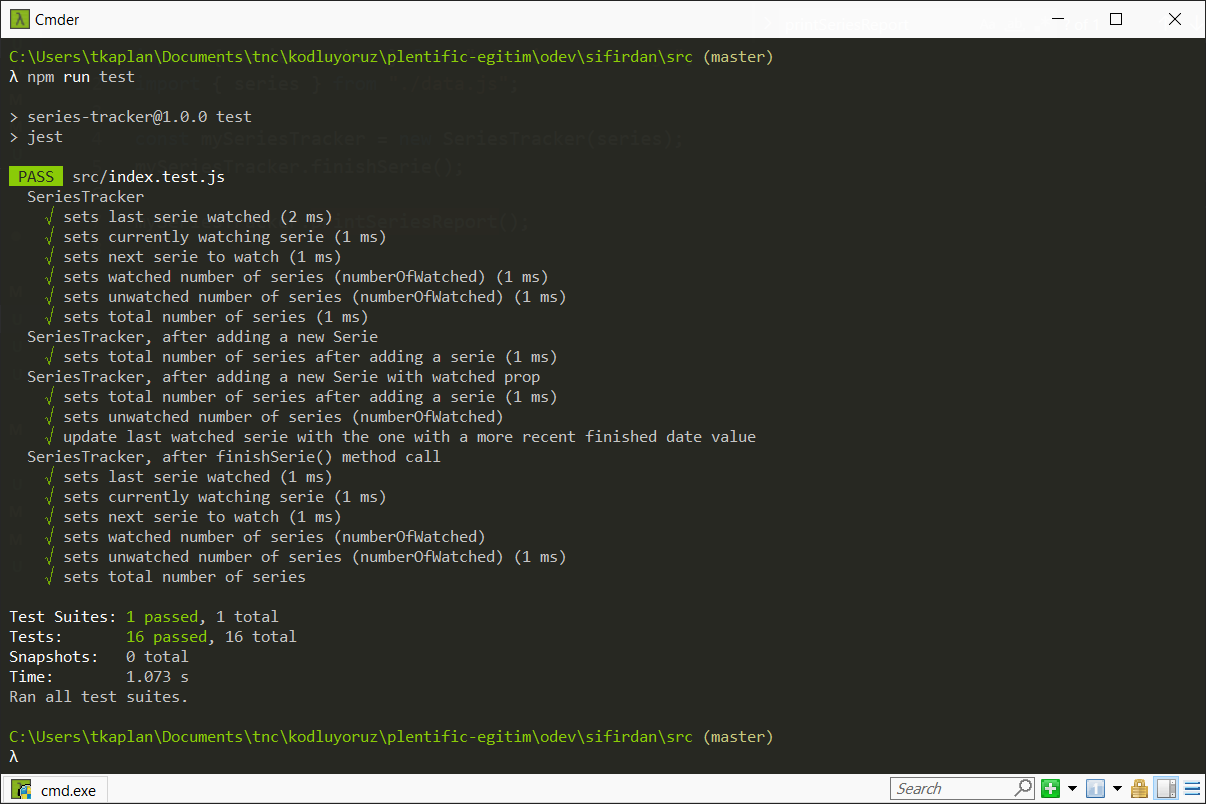
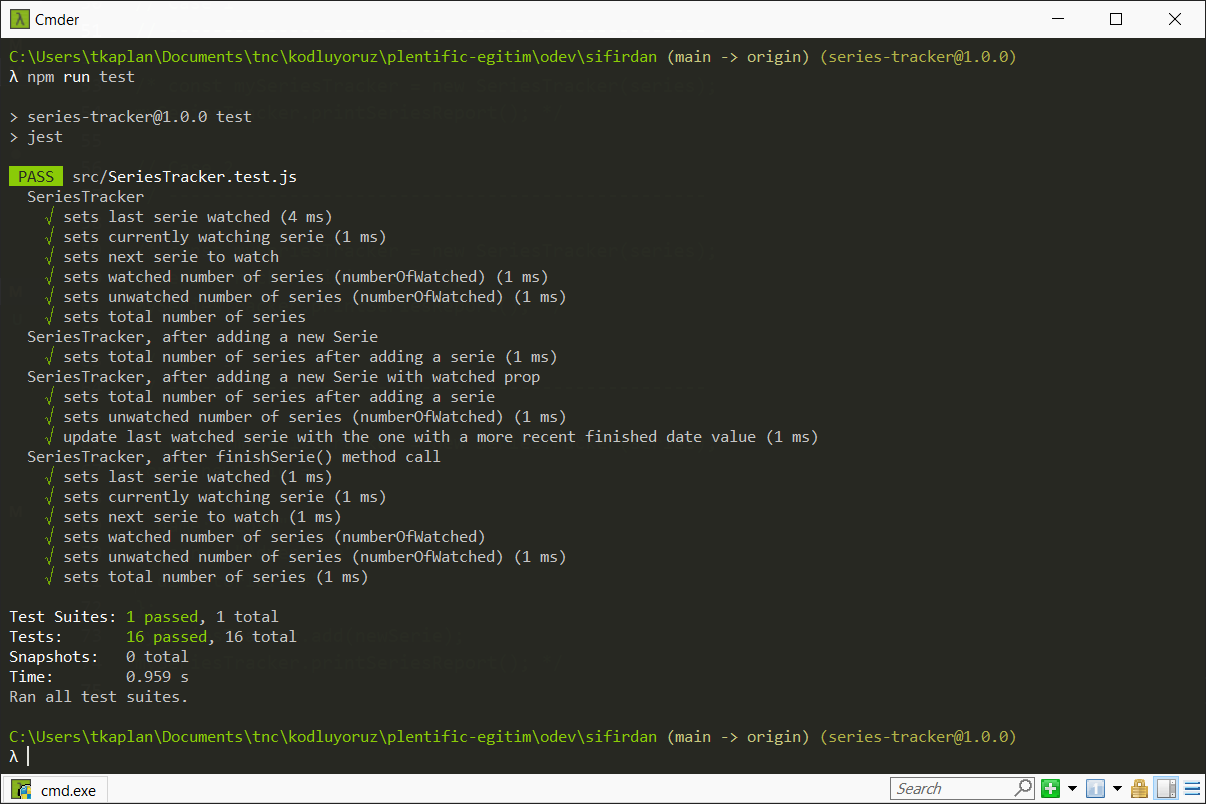
update readme rename test file

diff --git a/README.md b/README.md
@@ -1,20 +1,17 @@
 ## Task: TV Series Tracker
 
-Codesandbox linki:
-https://codesandbox.io/s/magical-silence-vsob4?file=/src/index.js:1784-2411
-projeyi codesandbox'dan forklayarak da çalışabilirsiniz.
+Projeyi forklayıp `SeriesTracker.js` dosyasındaki değişiklikleri yaptıktan sonra pushlamanız yeterli. Diğer dosyalarda değişiklik yapılması gerekli değil.
 
-Bittiğinde index.js'yi kopyalayıp repoya yapıştırmanız yeterli.
+`SeriesTracker.js` dosyası içindeki yorum satırlarına göre SeriesTracker fonksiyonunu çalışır hale getirerek konsolda ekran görüntüsündeki değerlerin çıkmasını sağlayın.
+methodları çalıştırmak için komutlarını çalıştırın.
+`node method-1.js`
+`node method-2.js`
+Projeyi kopyaladıktan sonra `npm install` komutu ile yükleyip `npm run test` komutu ile testleri çalıştırabilirsini.
+`SeriesTracker.test.js` dosyasını okuyarak istenenleri daha detaylı görebilirsiniz.
 
-index.js dosyası içindeki yorum satırlarına göre SeriesTracker fonksiyonunu çalışır hale getirerek konsolda ekran görüntüsündeki değerlerin çıkmasını sağlayın.
+Uygulama, listenize aldığınız dizilerin izlenmiş ya da o anda izleniyor olma durumlarını saklıyor.
 
-VS COde'da Jest Runner eklentisini yükleyerek ya da Codesandbox'da doğrudan Tests sekmesinden otomatik testleri çalıştırabilirsiniz.
-
-tests/index.test.js dosyasını okuyarak istenenleri daha detaylı görebilirsiniz.
-
-Listenize aldığınız dizilerin izlenmiş ya da o anda izleniyor olma durumlarını saklıyor.
-
-Aynı anda tek dizi izlenebiliyor. mySeriesTracker.finishSerie(); ile mevcut dizi izlenmiş olarak kaydedilip sıradaki dizi izlenmeye başlanıyor.
+Aynı anda tek dizi izlenebiliyor. `mySeriesTracker.finishSerie()` ile mevcut dizi izlenmiş olarak kaydedilip sıradaki dizi izlenmeye başlanıyor.
 
 Konsol Çıktısı:
 ![img](./expected-console-output.png)
